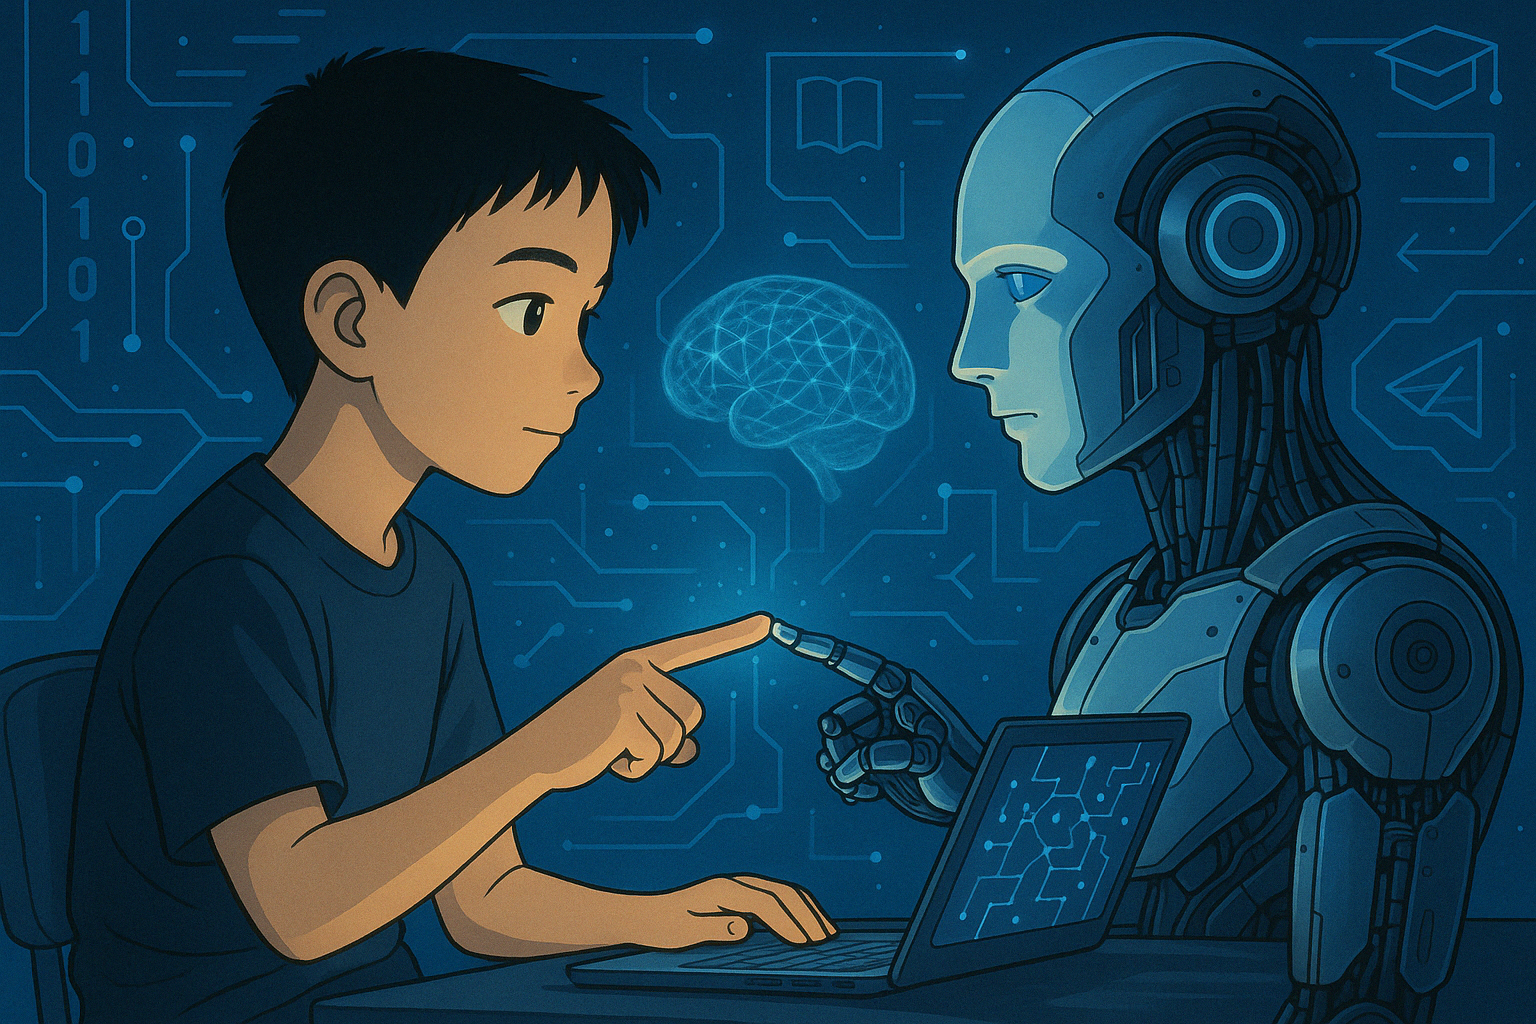
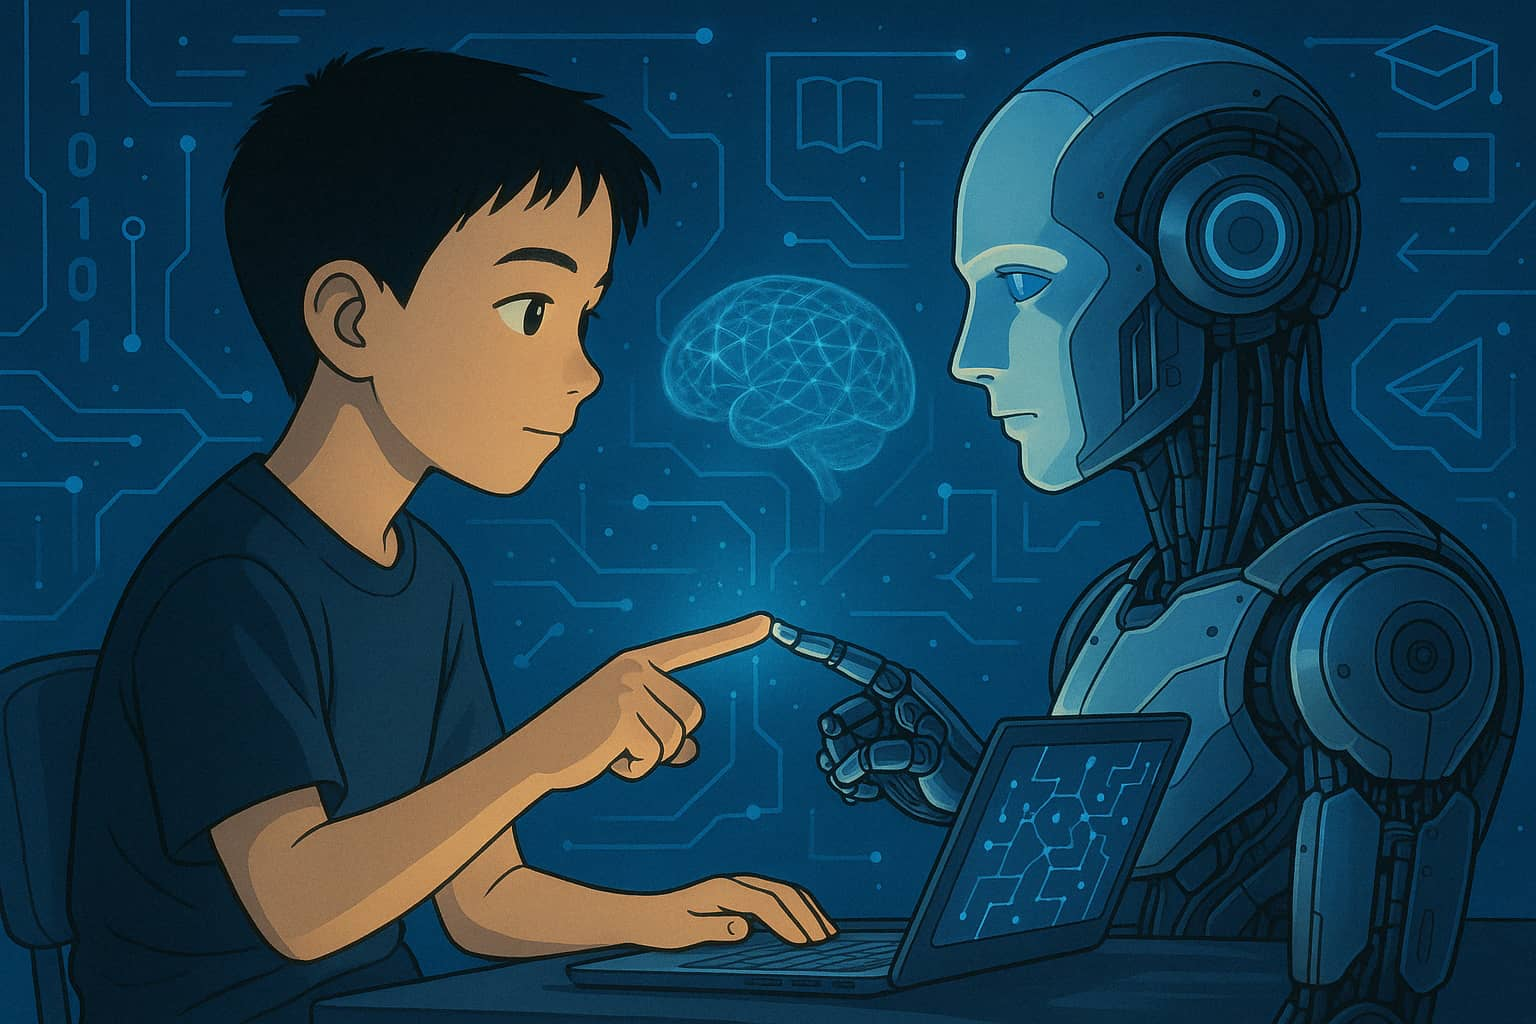
perf: 首页性能优化 - 图片压缩、懒加载、bundle 瘦身
- 压缩 intelligent.jpg (2.9MB→116KB) 和 uni.png (416KB→85KB)
- next.config.js 添加 swcMinify、removeConsole、modularizeImports
- 首页 QuickStart/FeaturesGrid 使用 dynamic() 懒加载
- CurrentLearningCard 使用 dynamic({ ssr: false })
- CURRICULUM_DATABASE 改为动态 import()，按需加载
- FeaturesGrid/QuickStart 用 LazyMotion + domAnimation 替代完整 motion
- MainLayout 页面切换动画从 framer-motion 改为 CSS @keyframes

diff --git a/app/components/QuickStart.tsx b/app/components/QuickStart.tsx
@@ -1,10 +1,11 @@
 'use client'
-import { useState, useMemo } from 'react'
+import { useState, useMemo, useEffect } from 'react'
 import { useRouter } from 'next/navigation'
-import { motion } from 'framer-motion'
-import { CURRICULUM_DATABASE } from '../data/curriculumDatabase'
+import { LazyMotion, domAnimation, m } from 'framer-motion'
 import { Zap, ChevronDown, BookOpen, GraduationCap, Calendar, Target, Sparkles } from 'lucide-react'
 import toast from 'react-hot-toast'
+
+import type { CurriculumStandard } from '../types/curriculum'
 
 export default function QuickStart() {
   const router = useRouter()
@@ -12,14 +13,24 @@ export default function QuickStart() {
   const [semester, setSemester] = useState('')
   const [subject, setSubject] = useState('')
   const [topicId, setTopicId] = useState('')
+  const [curriculumDB, setCurriculumDB] = useState<CurriculumStandard[]>([])
 
   const grades = ['四年级', '五年级', '六年级', '七年级', '八年级', '九年级', '高一', '高二', '高三']
   const semesters = ['上册', '下册']
   const subjects = ['语文', '数学', '物理', '英语', '历史', '化学', '政治', '生物', '地理']
 
+  // 动态加载课程数据库：仅在用户选择年级+学科后才加载
+  useEffect(() => {
+    if (grade && subject) {
+      import('../data/curriculumDatabase').then(mod => {
+        setCurriculumDB(mod.CURRICULUM_DATABASE)
+      })
+    }
+  }, [grade, subject])
+
   const availableTopics = useMemo(() => {
-    if (!grade || !subject) return []
-    const standards = CURRICULUM_DATABASE.filter(c =>
+    if (!grade || !subject || curriculumDB.length === 0) return []
+    const standards = curriculumDB.filter(c =>
       c.grade.includes(grade) &&
       c.subject.includes(subject) &&
       (!semester || !c.semester || c.semester === semester)
@@ -27,7 +38,7 @@ export default function QuickStart() {
     const allTopics = standards.flatMap(s => s.topics)
     const uniqueTopics = Array.from(new Map(allTopics.map(item => [item.name, item])).values())
     return uniqueTopics
-  }, [grade, subject, semester])
+  }, [grade, subject, semester, curriculumDB])
 
   const handleStart = () => {
     if (!grade || !subject) {
@@ -98,10 +109,11 @@ export default function QuickStart() {
   )
 
   return (
+    <LazyMotion features={domAnimation}>
     <section id="quick-start" className="py-20 bg-slate-50">
       <div className="max-w-4xl mx-auto px-6">
         {/* Section Header */}
-        <motion.div
+        <m.div
           initial={{ opacity: 0, y: 20 }}
           whileInView={{ opacity: 1, y: 0 }}
           viewport={{ once: true }}
@@ -117,10 +129,10 @@ export default function QuickStart() {
           <p className="text-gray-500 text-lg max-w-md mx-auto">
             选择年级和学科，AI将为你定制专属学习方案
           </p>
-        </motion.div>
+        </m.div>
 
         {/* Selection Card */}
-        <motion.div
+        <m.div
           initial={{ opacity: 0, y: 20 }}
           whileInView={{ opacity: 1, y: 0 }}
           viewport={{ once: true }}
@@ -204,8 +216,9 @@ export default function QuickStart() {
               </p>
             </div>
           </div>
-        </motion.div>
+        </m.div>
       </div>
     </section>
+    </LazyMotion>
   )
 }

diff --git a/app/components/FeaturesGrid.tsx b/app/components/FeaturesGrid.tsx
@@ -1,6 +1,6 @@
 'use client'
 import Link from 'next/link'
-import { motion } from 'framer-motion'
+import { LazyMotion, domAnimation, m } from 'framer-motion'
 import {
   Database,
   History,
@@ -57,10 +57,11 @@ const stats = [
 
 export default function FeaturesGrid() {
   return (
+    <LazyMotion features={domAnimation}>
     <section className="py-20 bg-white">
       <div className="max-w-6xl mx-auto px-6">
         {/* Section Header */}
-        <motion.div
+        <m.div
           initial={{ opacity: 0, y: 20 }}
           whileInView={{ opacity: 1, y: 0 }}
           viewport={{ once: true }}
@@ -75,12 +76,12 @@ export default function FeaturesGrid() {
           <p className="text-gray-500 text-lg max-w-md mx-auto">
             多维度功能支持，打造高效学习闭环
           </p>
-        </motion.div>
+        </m.div>
 
         {/* Features Grid */}
         <div className="grid grid-cols-1 md:grid-cols-2 lg:grid-cols-4 gap-6 mb-16">
           {features.map((feature, index) => (
-            <motion.div
+            <m.div
               key={feature.title}
               initial={{ opacity: 0, y: 20 }}
               whileInView={{ opacity: 1, y: 0 }}
@@ -110,12 +111,12 @@ export default function FeaturesGrid() {
                   <ArrowRight className="w-4 h-4 ml-1 group-hover:translate-x-1 transition-transform" />
                 </div>
               </Link>
-            </motion.div>
+            </m.div>
           ))}
         </div>
 
         {/* Bottom Stats */}
-        <motion.div
+        <m.div
           initial={{ opacity: 0, y: 20 }}
           whileInView={{ opacity: 1, y: 0 }}
           viewport={{ once: true }}
@@ -148,8 +149,9 @@ export default function FeaturesGrid() {
               ))}
             </div>
           </div>
-        </motion.div>
+        </m.div>
       </div>
     </section>
+    </LazyMotion>
   )
 }

diff --git a/app/components/MainLayout.tsx b/app/components/MainLayout.tsx
@@ -5,7 +5,6 @@ import { Layout, Menu, theme, ConfigProvider } from 'antd';
 import Link from 'next/link';
 import { usePathname } from 'next/navigation';
 import dynamic from 'next/dynamic';
-import { motion, AnimatePresence } from 'framer-motion';
 import { Brain } from 'lucide-react';
 
 const { Header, Content, Footer } = Layout;
@@ -125,18 +124,21 @@ const MainLayout = ({ children }: { children: React.ReactNode }) => {
           </div>
         </Header>
         <Content style={{ background: '#f8fafc' }}>
-          <AnimatePresence mode="wait">
-            <motion.div
-              key={pathname}
-              initial={{ opacity: 0, y: 8 }}
-              animate={{ opacity: 1, y: 0 }}
-              exit={{ opacity: 0, y: -8 }}
-              transition={{ duration: 0.2, ease: 'easeInOut' }}
-              style={{ minHeight: '100%' }}
-            >
-              {children}
-            </motion.div>
-          </AnimatePresence>
+          <div
+            key={pathname}
+            style={{
+              minHeight: '100%',
+              animation: 'fadeIn 0.2s ease-in-out',
+            }}
+          >
+            {children}
+          </div>
+          <style jsx global>{`
+            @keyframes fadeIn {
+              from { opacity: 0; transform: translateY(8px); }
+              to { opacity: 1; transform: translateY(0); }
+            }
+          `}</style>
         </Content>
       </Layout>
     </ConfigProvider>

diff --git a/next.config.js b/next.config.js
@@ -1,17 +1,37 @@
 /** @type {import('next').NextConfig} */
 const nextConfig = {
   reactStrictMode: true,
-  
+  swcMinify: true,
+
+  // 生产环境去除 console
+  compiler: {
+    removeConsole: process.env.NODE_ENV === 'production',
+  },
+
+  // antd / lucide-react tree-shaking
+  modularizeImports: {
+    'antd': {
+      transform: 'antd/es/{{kebabCase member}}',
+      skipDefaultConversion: true,
+    },
+    '@ant-design/icons': {
+      transform: '@ant-design/icons/es/icons/{{member}}',
+    },
+    'lucide-react': {
+      transform: 'lucide-react/dist/esm/icons/{{kebabCase member}}',
+    },
+  },
+
   // 支持 PDF.js
   webpack: (config) => {
     config.resolve.alias.canvas = false;
     return config;
   },
-  
+
   // 临时忽略类型错误，以便部署
   typescript: { ignoreBuildErrors: true },
   eslint: { ignoreDuringBuilds: true },
-  
+
   // 实验性功能
   experimental: { esmExternals: 'loose' },
 };

diff --git a/app/components/HeroSection.tsx b/app/components/HeroSection.tsx
@@ -1,8 +1,10 @@
 'use client'
 import Link from 'next/link'
+import dynamic from 'next/dynamic'
 import { motion } from 'framer-motion'
 import { Sparkles, Brain, Target, Rocket, CheckCircle, TrendingUp, Clock } from 'lucide-react'
-import CurrentLearningCard from './Dashboard/CurrentLearningCard'
+
+const CurrentLearningCard = dynamic(() => import('./Dashboard/CurrentLearningCard'), { ssr: false })
 
 export default function HeroSection() {
   const features = [

diff --git a/app/page.tsx b/app/page.tsx
@@ -1,7 +1,9 @@
 'use client'
+import dynamic from 'next/dynamic'
 import HeroSection from './components/HeroSection'
-import QuickStart from './components/QuickStart'
-import FeaturesGrid from './components/FeaturesGrid'
+
+const QuickStart = dynamic(() => import('./components/QuickStart'))
+const FeaturesGrid = dynamic(() => import('./components/FeaturesGrid'))
 
 export default function Home() {
   return (

diff --git a/.trae/documents/修复 _br_ 在表格单元格内不生效.md b/.trae/documents/修复 _br_ 在表格单元格内不生效.md
@@ -1,25 +1,42 @@
 ## 现象与结论
-- 现在表格已恢复解析（说明 `|:---|` 分隔行不再被预处理破坏）。
-- 但 `<br> 换行渲染 (td br=0, all br=1)` 仍失败，代表页面确实出现了一个 `<br>`，但它没有落在 `td` 里面。
+
+* 现在表格已恢复解析（说明 `|:---|` 分隔行不再被预处理破坏）。
+
+* 但 `<br> 换行渲染 (td br=0, all br=1)` 仍失败，代表页面确实出现了一个 `<br>`，但它没有落在 `td` 里面。
 
 ## 根因定位
-- 当前 `remarkHtmlBrToBreak` 的实现有一个稳定性 bug：
-  - 使用了全局正则 `/<br\s*\/?>/gi` 并用 `BR_RE.test(value)` 做判断。
-  - 全局正则的 `test()` 会推进 `lastIndex`，导致同一个正则在多次调用时“时而命中、时而不命中”，从而漏拆某些文本节点里的 `<br />`。
-  - 代码位置：[remarkHtmlBrToBreak.ts](file:///Users/fangyuan/Desktop/%E4%BA%A7%E5%93%81%E3%80%90%E8%87%AA%E5%AD%A6%E7%B3%BB%E7%BB%9F%E3%80%91/app/components/markdown/remarkHtmlBrToBreak.ts#L4-L20)
-- 另外一个可能情况：在表格单元格里，`<br />` 有时会被 parser 产出为 `html` 节点且包含前后文本（不是“纯 `<br>`”节点）。目前代码只处理“纯 `<br>` 的 html 节点”，这种情况也会漏掉。
+
+* 当前 `remarkHtmlBrToBreak` 的实现有一个稳定性 bug：
+
+  * 使用了全局正则 `/<br\s*\/?>/gi` 并用 `BR_RE.test(value)` 做判断。
+
+  * 全局正则的 `test()` 会推进 `lastIndex`，导致同一个正则在多次调用时“时而命中、时而不命中”，从而漏拆某些文本节点里的 `<br />`。
+
+  * 代码位置：[remarkHtmlBrToBreak.ts](file:///Users/fangyuan/Desktop/%E4%BA%A7%E5%93%81%E3%80%90%E8%87%AA%E5%AD%A6%E7%B3%BB%E7%BB%9F%E3%80%91/app/components/markdown/remarkHtmlBrToBreak.ts#L4-L20)
+
+* 另外一个可能情况：在表格单元格里，`<br />` 有时会被 parser 产出为 `html` 节点且包含前后文本（不是“纯 `<br>`”节点）。目前代码只处理“纯 `<br>` 的 html 节点”，这种情况也会漏掉。
 
 ## 实施改动
-1) 修复全局正则 `test()` 的 lastIndex 问题
-- 将判断用的正则改成非全局版本（例如 `const BR_TEST = /<br\s*\/?>/i`），split 用 `BR_SPLIT = /<br\s*\/?>/gi`。
-- 或者每次 `test` 前重置 `BR_RE.lastIndex = 0`（更不推荐）。
 
-2) 支持拆分“包含 `<br>` 的 html 节点”
-- 当 `child.type === 'html'` 且 `child.value` 中包含 `<br>`，并且去掉 `<br>` 后不再含其它 HTML 标签（避免误处理复杂 HTML），则将该 `html` 节点拆成 `text + break + text` 的 mdast 序列。
-- 保留原逻辑：纯 `<br>` 的 html 节点直接替换为 `{ type: 'break' }`。
+1. 修复全局正则 `test()` 的 lastIndex 问题
+
+* 将判断用的正则改成非全局版本（例如 `const BR_TEST = /<br\s*\/?>/i`），split 用 `BR_SPLIT = /<br\s*\/?>/gi`。
+
+* 或者每次 `test` 前重置 `BR_RE.lastIndex = 0`（更不推荐）。
+
+1. 支持拆分“包含 `<br>` 的 html 节点”
+
+* 当 `child.type === 'html'` 且 `child.value` 中包含 `<br>`，并且去掉 `<br>` 后不再含其它 HTML 标签（避免误处理复杂 HTML），则将该 `html` 节点拆成 `text + break + text` 的 mdast 序列。
+
+* 保留原逻辑：纯 `<br>` 的 html 节点直接替换为 `{ type: 'break' }`。
 
 ## 验证方式
-- 打开 `markdown-test`：
-  - 预期：`<br> 换行渲染 (td br>0, all br>0)` 通过
-  - 同时确保：`表格渲染` 仍通过。
-- 若仍失败，我会在测试页临时把表格单元格内容改成更“强制触发”形式（例如同时包含 `<br>` 与普通换行），以确认 AST 形态（text/html）并再补一条兼容分支。
+
+* 打开 `markdown-test`：
+
+  * 预期：`<br> 换行渲染 (td br>0, all br>0)` 通过
+
+  * 同时确保：`表格渲染` 仍通过。
+
+* 若仍失败，我会在测试页临时把表格单元格内容改成更“强制触发”形式（例如同时包含 `<br>` 与普通换行），以确认 AST 形态（text/html）并再补一条兼容分支。
+
